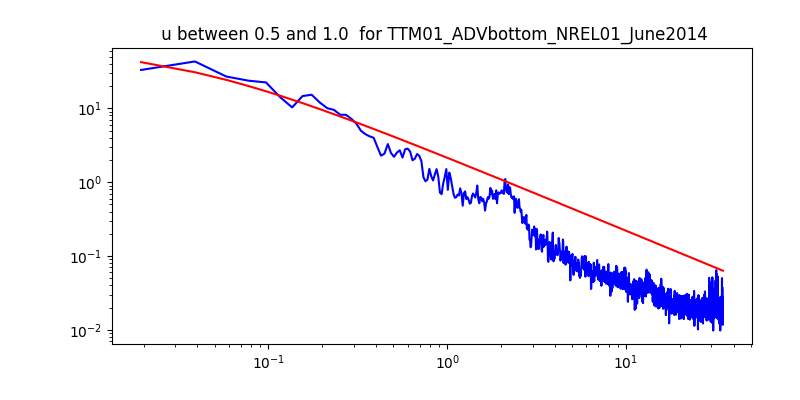
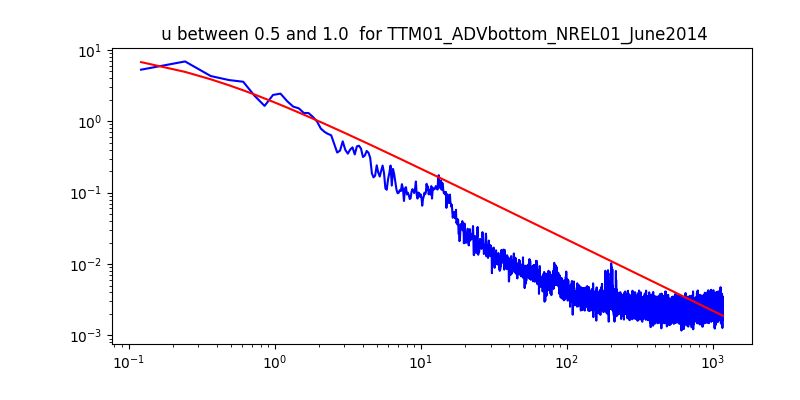
Changed to dat_bin.omega in the spectral_fit_u file

diff --git a/spectral_fit_u.py b/spectral_fit_u.py
@@ -36,8 +36,8 @@ def def_x_y(dat_bin, z, u_star, U_hor, uinds, freq_range):
     """Defines x and y and normalizes them"""
     # ifreq = np.zeros(dat_bin.freq.shape, dtype='bool')
     ifreq = ((freq_range[0] < dat_bin.freq) & (dat_bin.freq < freq_range[1]))
-    x = dat_bin.freq[ifreq]
-    y = dat_bin.Spec[0, uinds].mean(0) * pii
+    x = dat_bin.omega
+    y = dat_bin.Spec[0, uinds].mean(0)
     y = y[ifreq]
     x_norm = (x * z) / U_hor
     y_norm = (y * U_hor) / (z * u_star)
@@ -84,7 +84,7 @@ for filename in FILENAMES:
     popts = []
     for indices, words in zip(UINDS, UINDS_words):
         uinds = indices
-        freq_range = [0, 3]
+        freq_range = [0, 30]
         u_star, U_hor = def_vars(dat_bin, uinds)
         x_norm, y_norm, x, y = def_x_y(dat_bin, z, u_star, U_hor, uinds, freq_range)
         popt, pcov = scipy.optimize.curve_fit(function, x_norm, y_norm)
